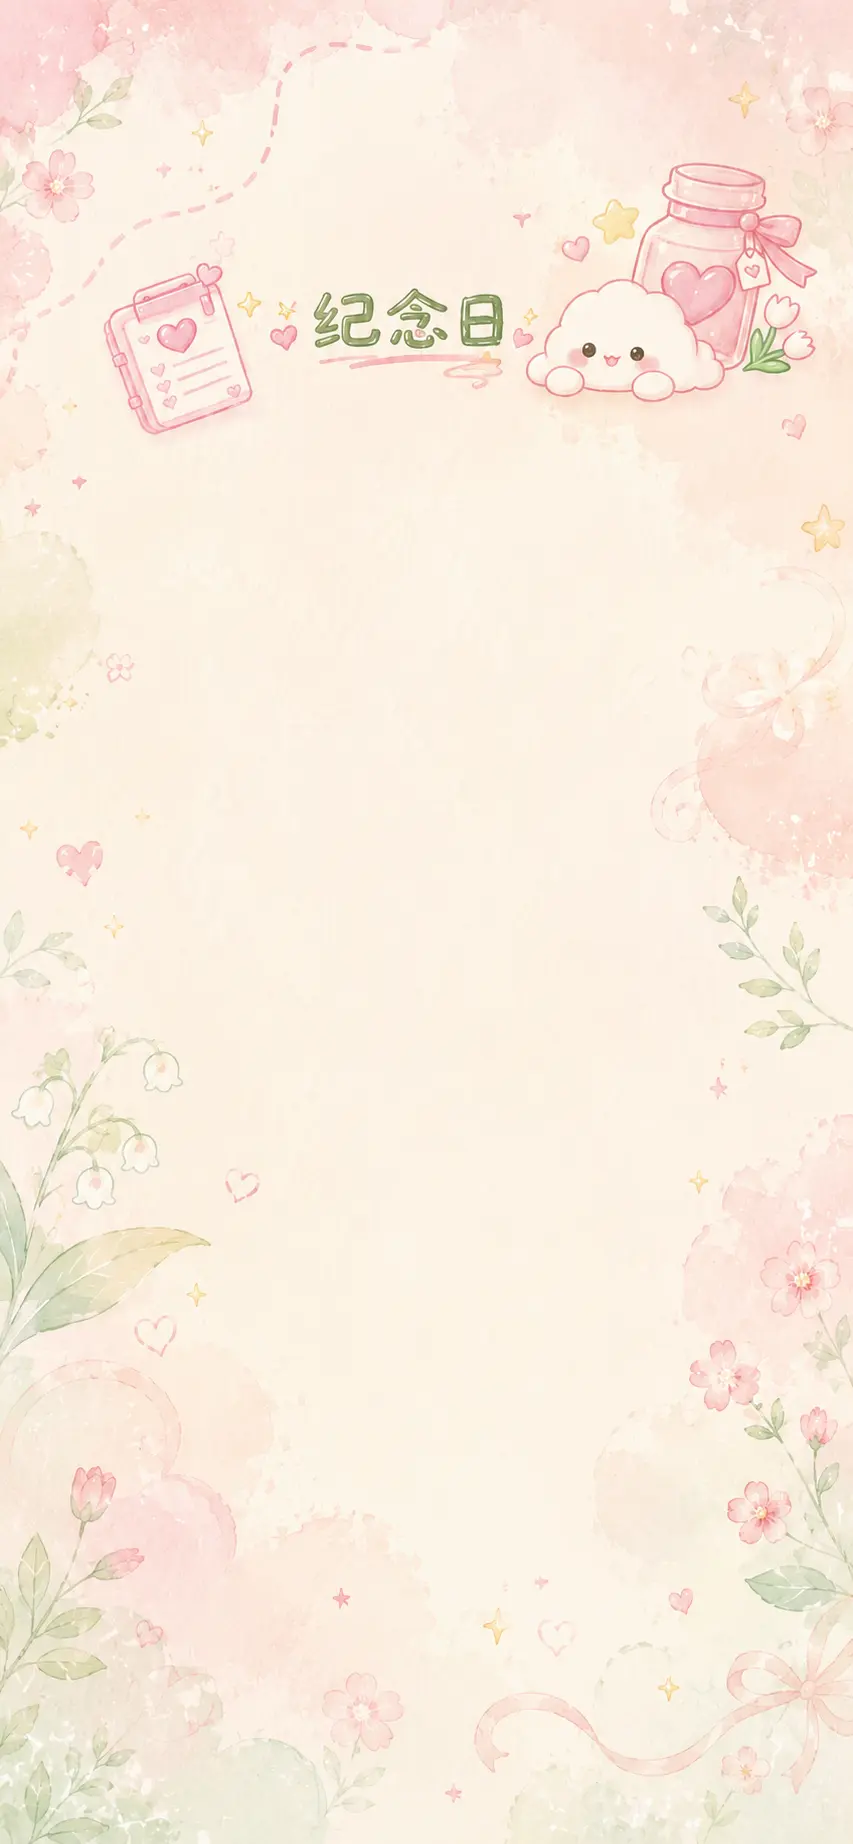
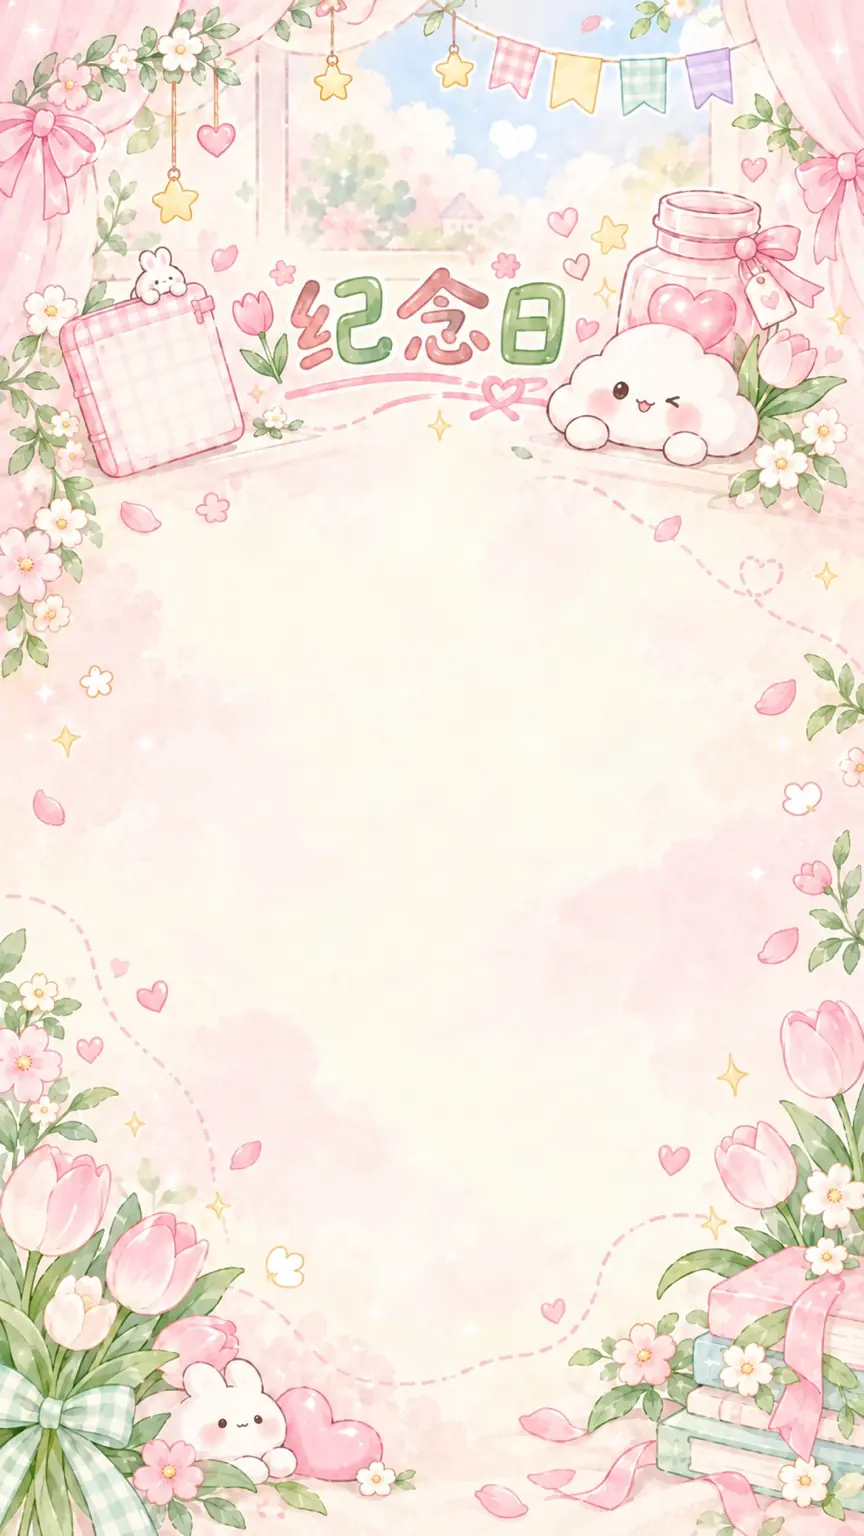
style: update anniversary background

diff --git a/src/components/CareHub/AnniversaryWindow.jsx b/src/components/CareHub/AnniversaryWindow.jsx
@@ -256,7 +256,7 @@ export default function AnniversaryWindow({ theme, onClose }) {
           z-index: 0;
           inset: -22px 0 0;
           pointer-events: none;
-          background: url('/backgrounds/daf99-anniversary-v1.webp') center top / cover no-repeat;
+          background: url('/backgrounds/daf99-anniversary-v1.webp') center -24px / cover no-repeat;
           opacity: .92;
         }
         .anniversary-window > :not(.anniversary-window__texture) { position: relative; z-index: 1; }
